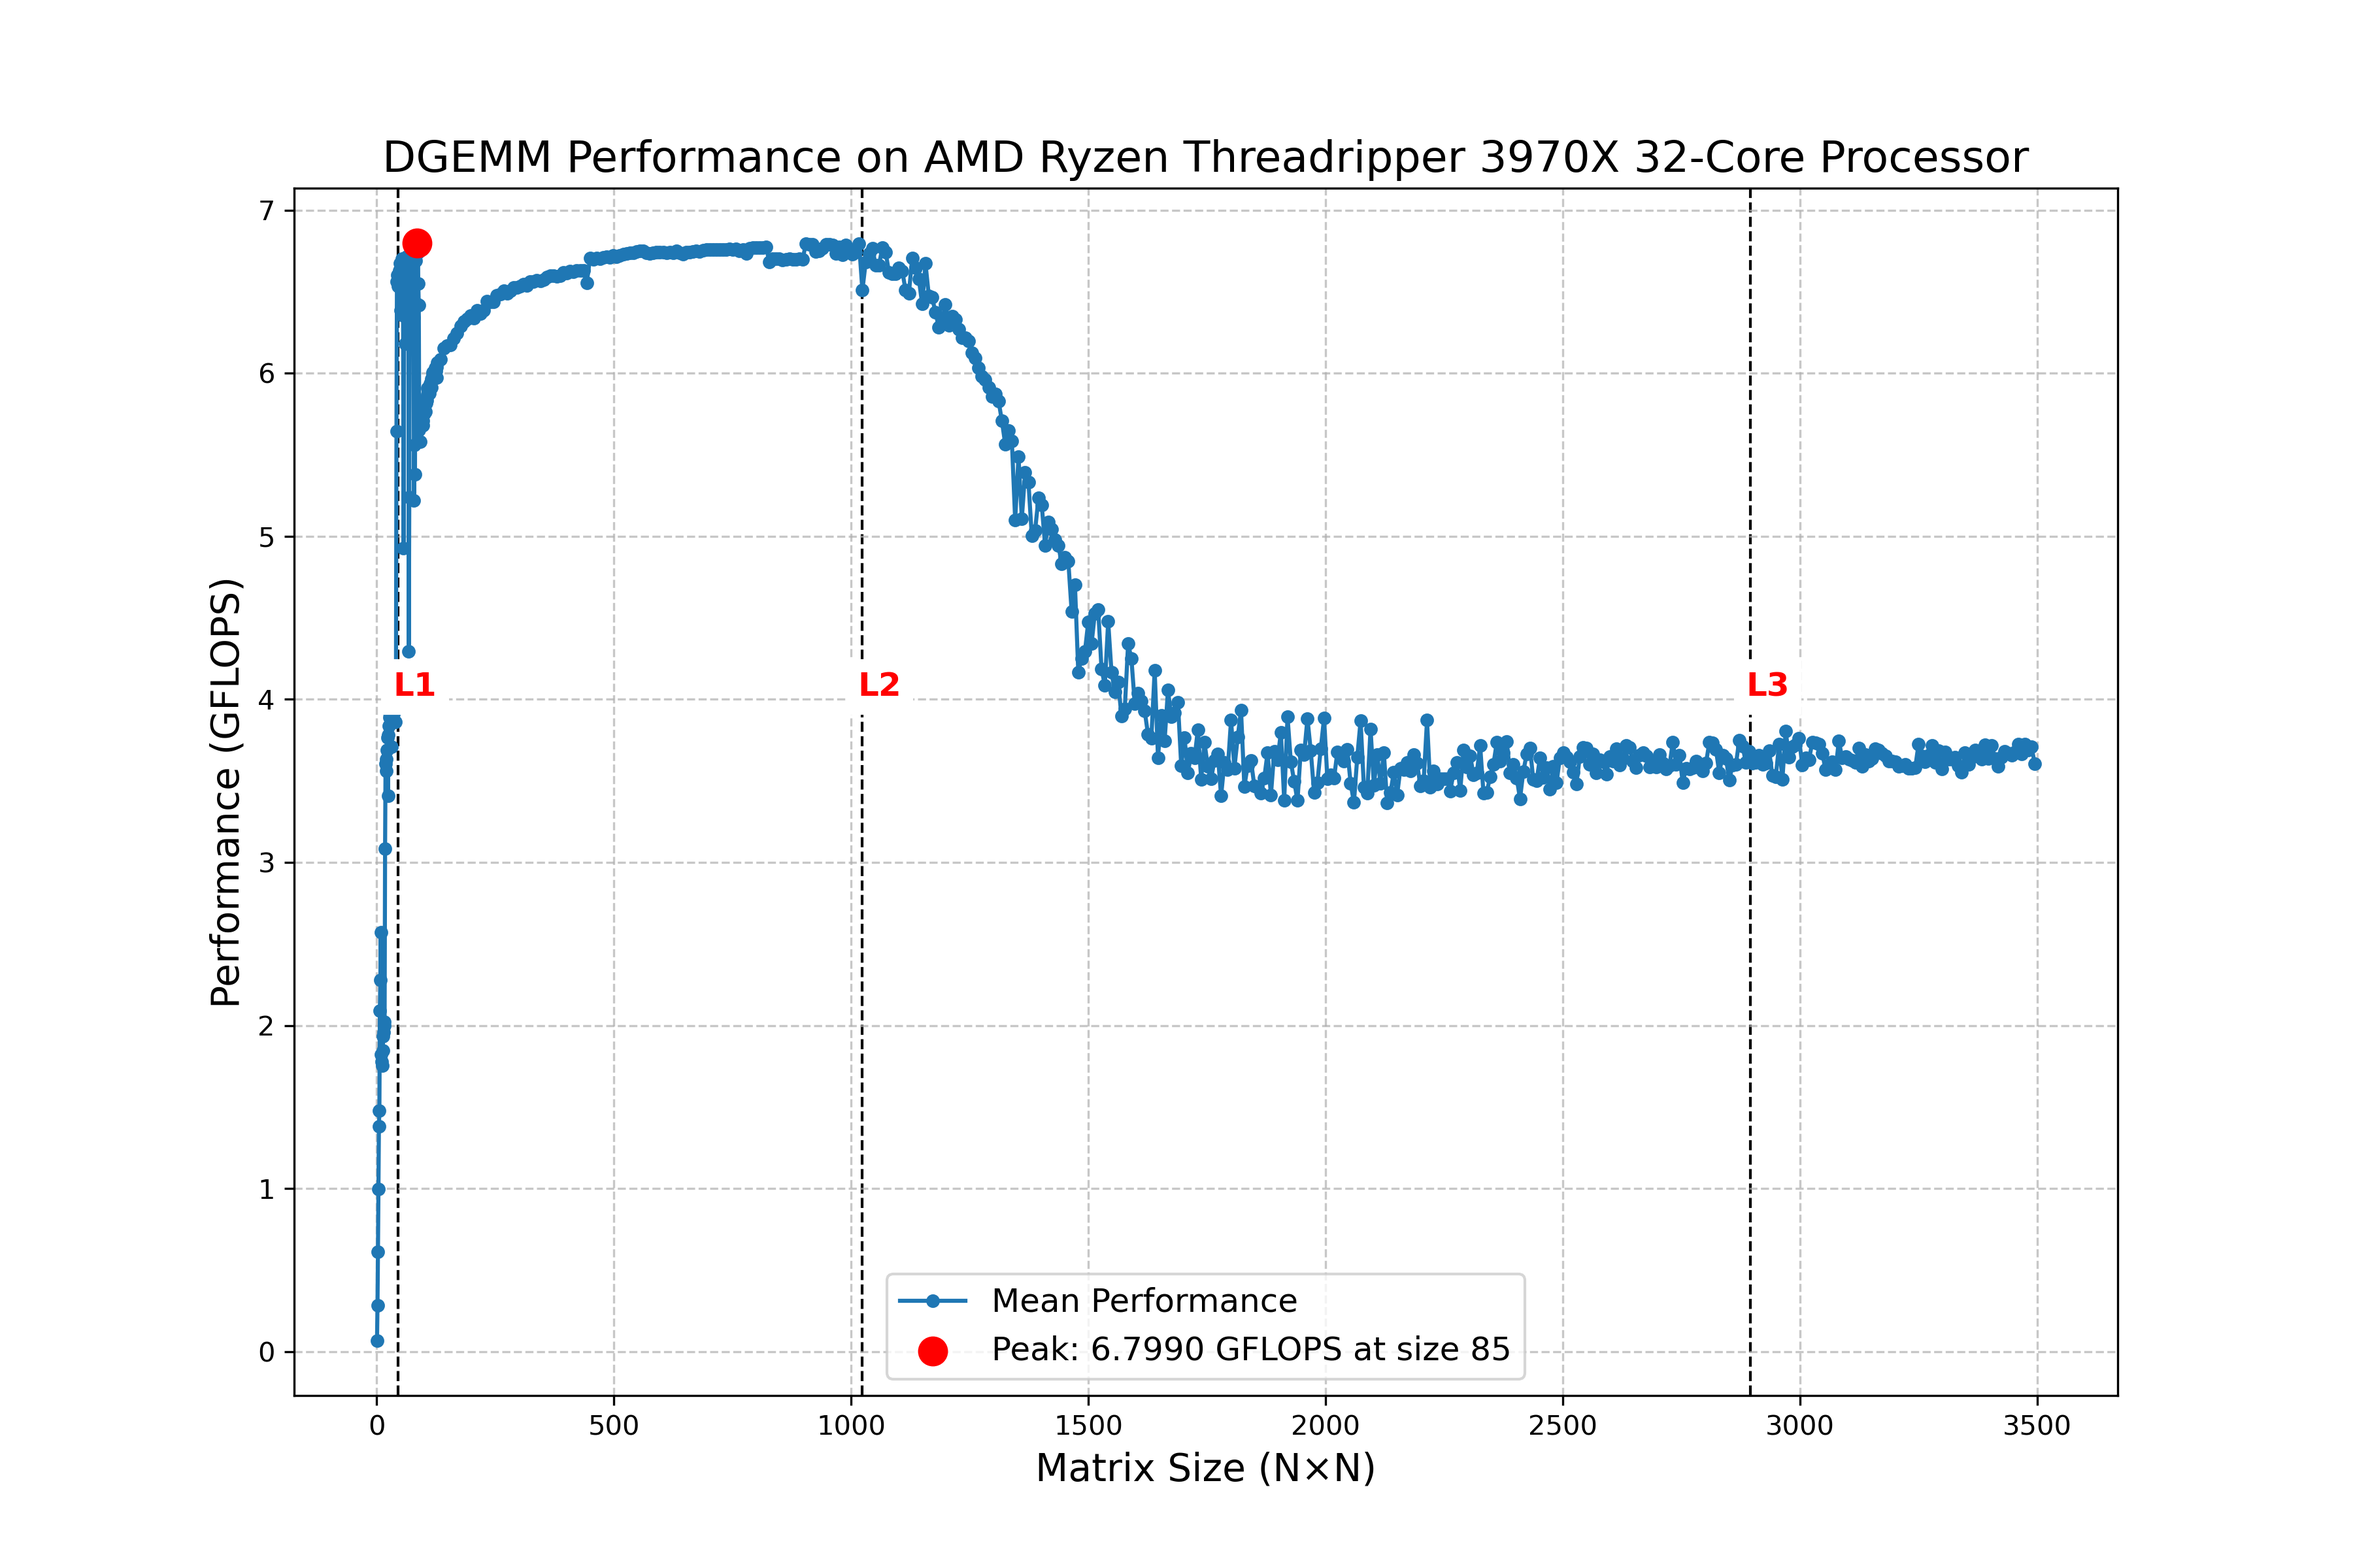
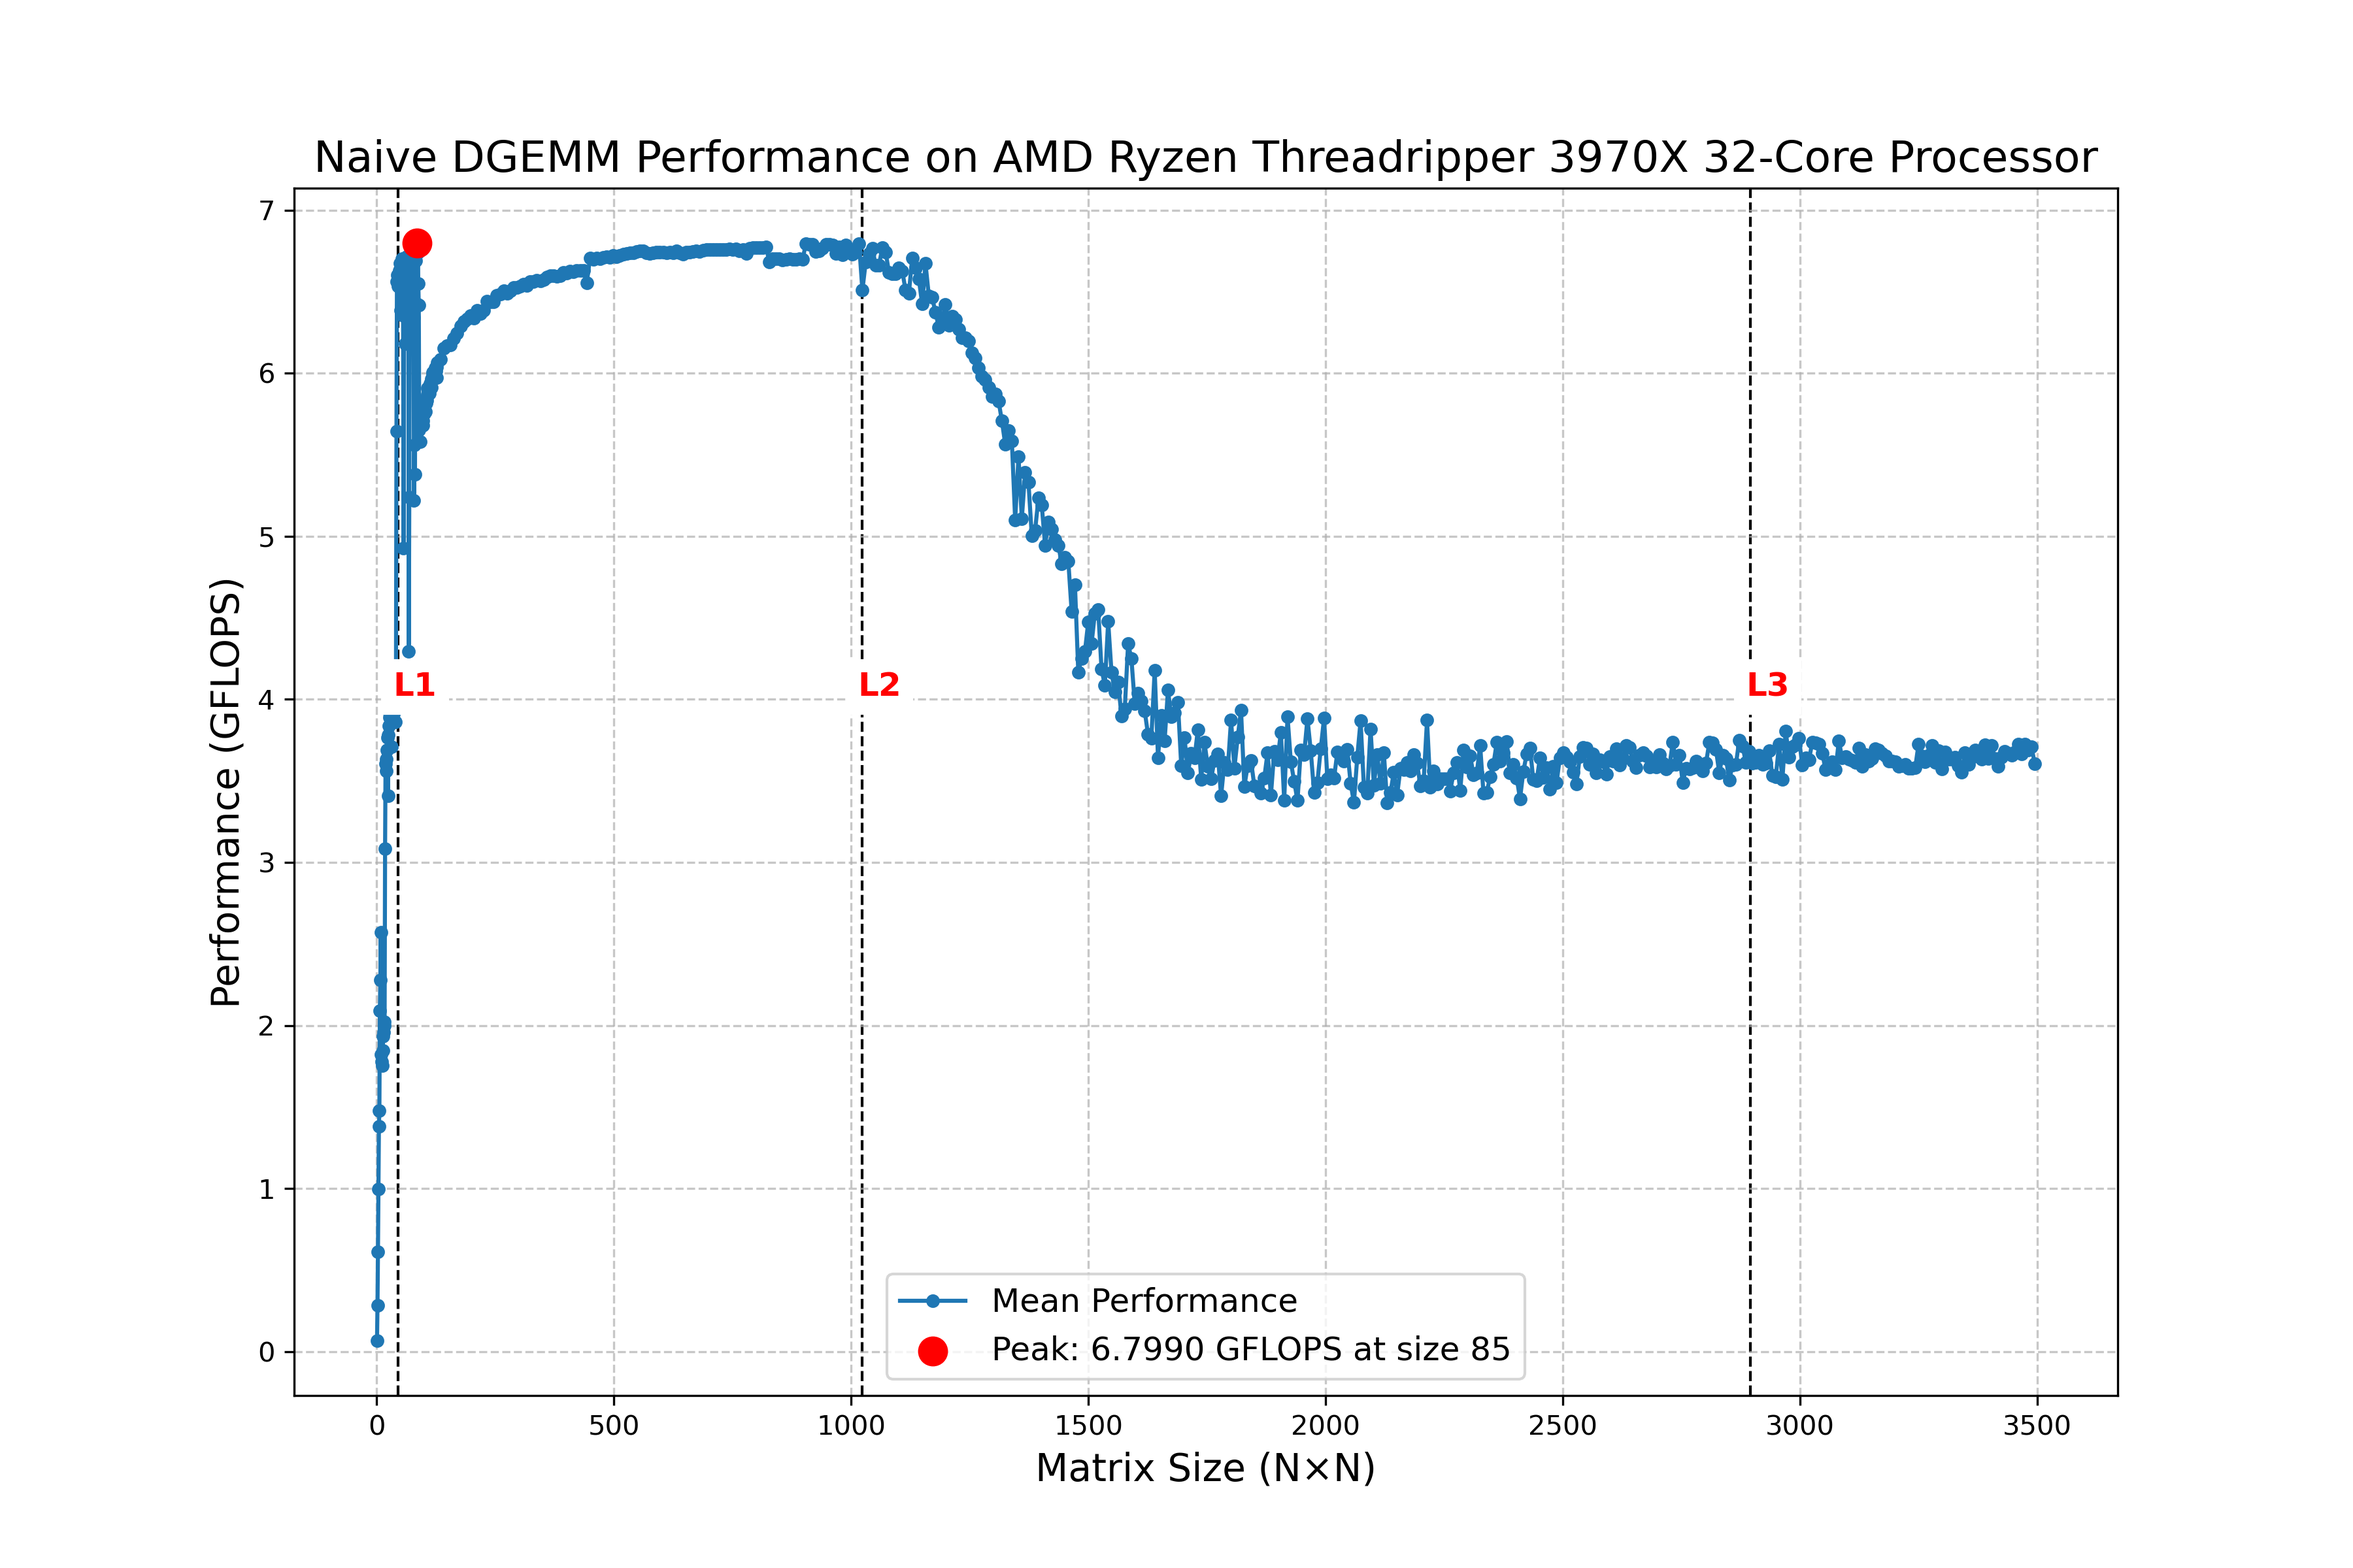
.

Changed region(s): [[0.1244, 0.0938, 0.9022, 0.125]]

diff --git a/06/plot.py b/06/plot.py
@@ -86,7 +86,7 @@ def read_and_plot_csv(csv_file="dgemm_benchmark_results.csv"):
         )
 
     plt.grid(True, linestyle="--", alpha=0.7, zorder=0)
-    plt.title(f"DGEMM Performance on {cpu_info}", fontsize=16)
+    plt.title(f"Naive DGEMM Performance on {cpu_info}", fontsize=16)
     plt.xlabel("Matrix Size (N×N)", fontsize=14)
     plt.ylabel("Performance (GFLOPS)", fontsize=14)
 
